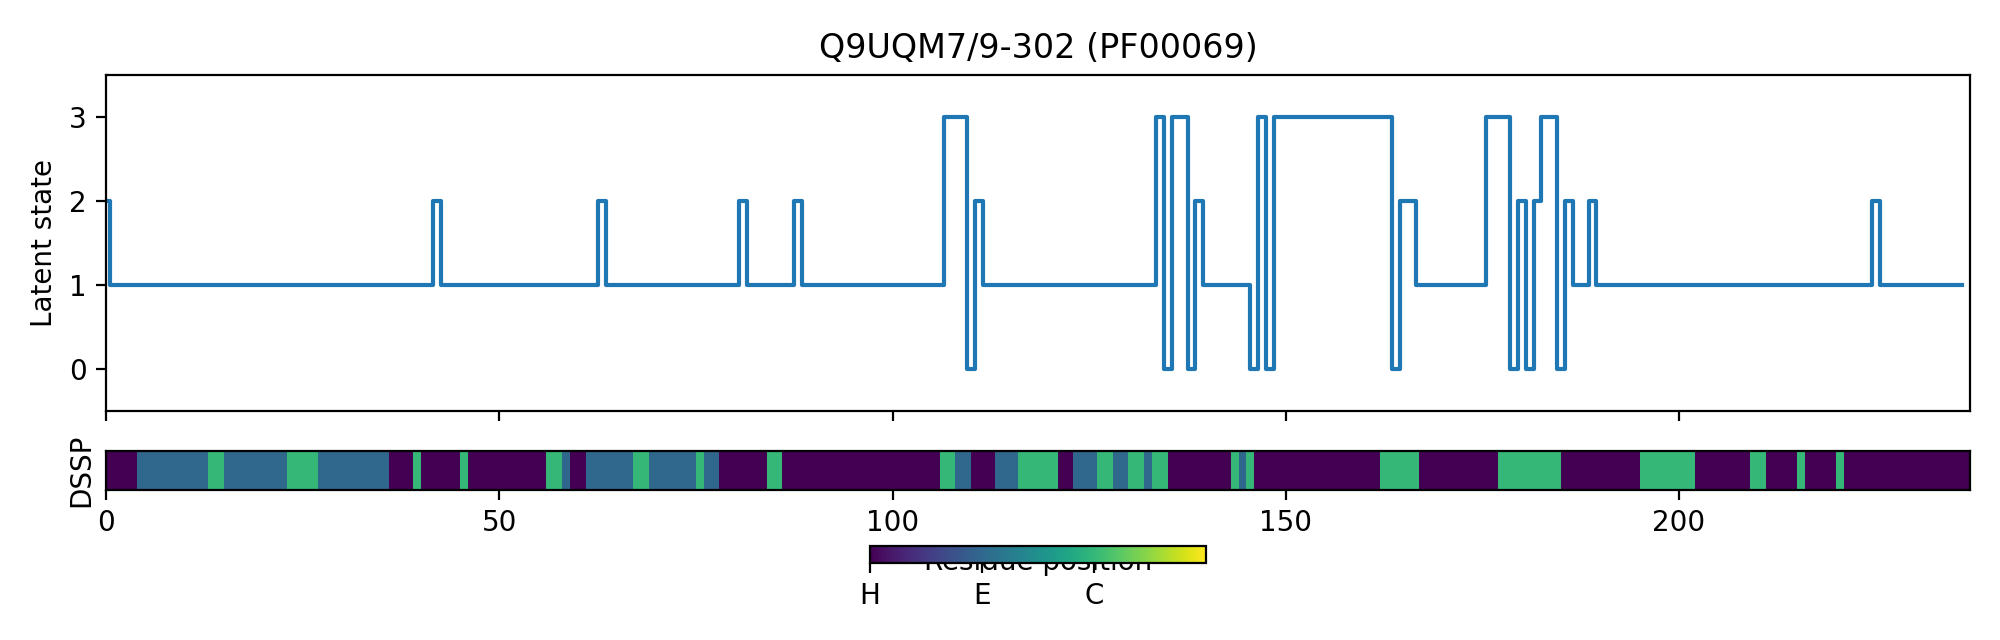
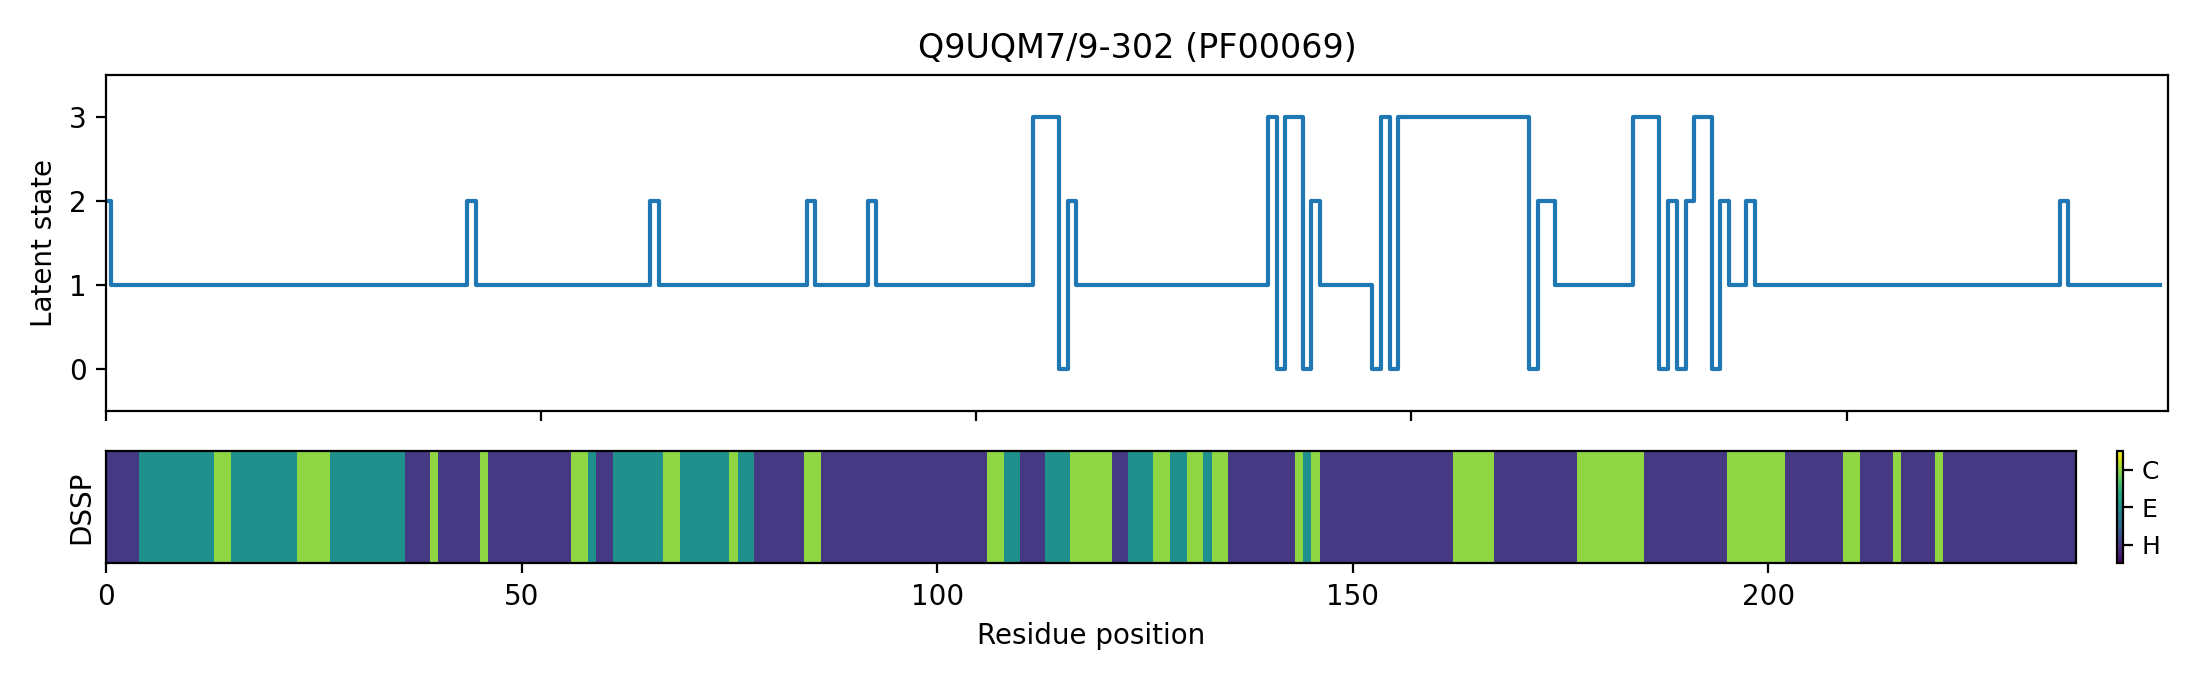
move decoded-path colorbar off the x-axis label
The horizontal colorbar collided with the residue-position label and the
H/E/C ticks were rendered on top of it. Switching to a thin vertical
colorbar on the right side and a slightly wider canvas gives both the
DSSP tick labels and the x-axis label room to breathe.

Changed region(s): [[0.0, 0.0312, 0.992, 0.9688], [0.93, 0.2812, 0.961, 0.3125], [0.186, 0.2812, 0.217, 0.3125]]

diff --git a/src/protein_hmm/visualization/sequence_plots.py b/src/protein_hmm/visualization/sequence_plots.py
@@ -61,7 +61,7 @@ def plot_state_path_with_labels(
     label_track = np.asarray([label_index.get(label, len(label_order)) for label in labels])
 
     figure, (axis_top, axis_bottom) = plt.subplots(
-        2, 1, figsize=(10, 3.2), sharex=True, gridspec_kw={"height_ratios": [3, 1]}
+        2, 1, figsize=(11, 3.4), sharex=True, gridspec_kw={"height_ratios": [3, 1]}
     )
     axis_top.step(range(len(states)), states, where="mid", linewidth=1.5, color="tab:blue")
     axis_top.set_ylabel("Latent state")
@@ -69,19 +69,21 @@ def plot_state_path_with_labels(
     axis_top.set_title(title)
     axis_top.set_ylim(-0.5, num_states - 0.5)
 
+    n_labels = len(label_order)
     image = axis_bottom.imshow(
         label_track[None, :],
         aspect="auto",
         cmap="viridis",
-        vmin=0,
-        vmax=len(label_order),
+        vmin=-0.5,
+        vmax=n_labels - 0.5,
         extent=(0, len(labels), 0, 1),
     )
     axis_bottom.set_yticks([])
     axis_bottom.set_ylabel("DSSP")
     axis_bottom.set_xlabel("Residue position")
-    colorbar = figure.colorbar(image, ax=axis_bottom, ticks=range(len(label_order)), orientation="horizontal", pad=0.5)
-    colorbar.ax.set_xticklabels(list(label_order))
+    colorbar = figure.colorbar(image, ax=axis_bottom, ticks=list(range(n_labels)), orientation="vertical", fraction=0.025, pad=0.02)
+    colorbar.ax.set_yticklabels(list(label_order))
+    colorbar.ax.tick_params(labelsize=9)
     figure.tight_layout()
     if path is not None:
         Path(path).parent.mkdir(parents=True, exist_ok=True)
